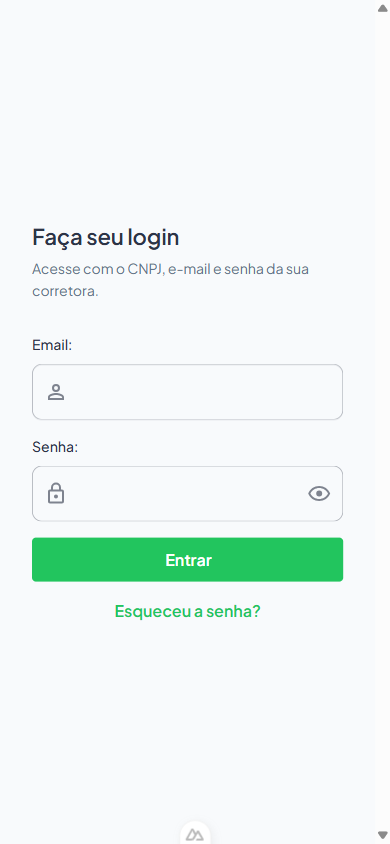
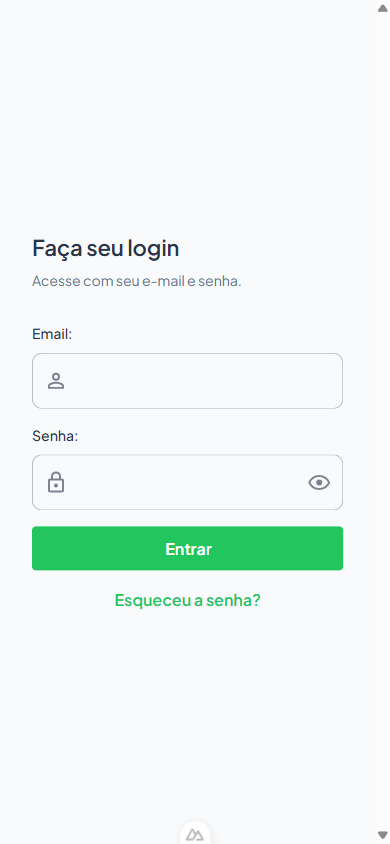
feat(login): remove menção a CNPJ (login só com e-mail e senha)
O login passa a pedir apenas e-mail e senha — sem CNPJ. A corretora é escolhida
dentro da plataforma (workspace picker pós-login, feature futura). Alinha com o
protótipo do design system (ui_kits/web/login.html), que documenta o motivo:
usuários com múltiplas corretoras tinham que deslogar/logar para trocar.

Subtítulo: "Acesse com seu e-mail e senha." (sem prometer o picker inexistente).
Evidências (desktop/mobile) e exec-plan 0008 atualizados.

Changed region(s): [[0.0615, 0.2773, 0.8923, 0.7393]]

diff --git a/app/pages/login.vue b/app/pages/login.vue
@@ -93,7 +93,7 @@ async function submit() {
             Faça seu login
           </h1>
           <p class="si-login__subtitle">
-            Acesse com o CNPJ, e-mail e senha da sua corretora.
+            Acesse com seu e-mail e senha.
           </p>
         </header>
 

diff --git a/docs/exec-plans/active/0008-redesign-login.md b/docs/exec-plans/active/0008-redesign-login.md
@@ -64,3 +64,9 @@ usuário/corretora (OPEN-03).
 **Decisão (recuperação de senha):** o link "Esqueceu a senha?" existe no design QA, mas o fluxo
 (rota/serviço) ainda não existe. Até lá o link informa a indisponibilidade (aviso) em vez de navegar
 para uma rota inexistente — evita link morto sem materializar promessa de tela.
+
+**Decisão (login sem CNPJ, 2026-07-21 — dono + design system):** o login pede **só e-mail e senha**,
+sem CNPJ. O protótipo do design system (`design system/ui_kits/web/login.html`) documenta o porquê:
+usuários com múltiplas corretoras tinham que deslogar/logar para trocar; a corretora passa a ser
+escolhida **dentro** da plataforma (workspace picker pós-login — feature futura, fora deste escopo).
+Subtítulo ajustado para "Acesse com seu e-mail e senha." (sem prometer o picker, que ainda não existe).